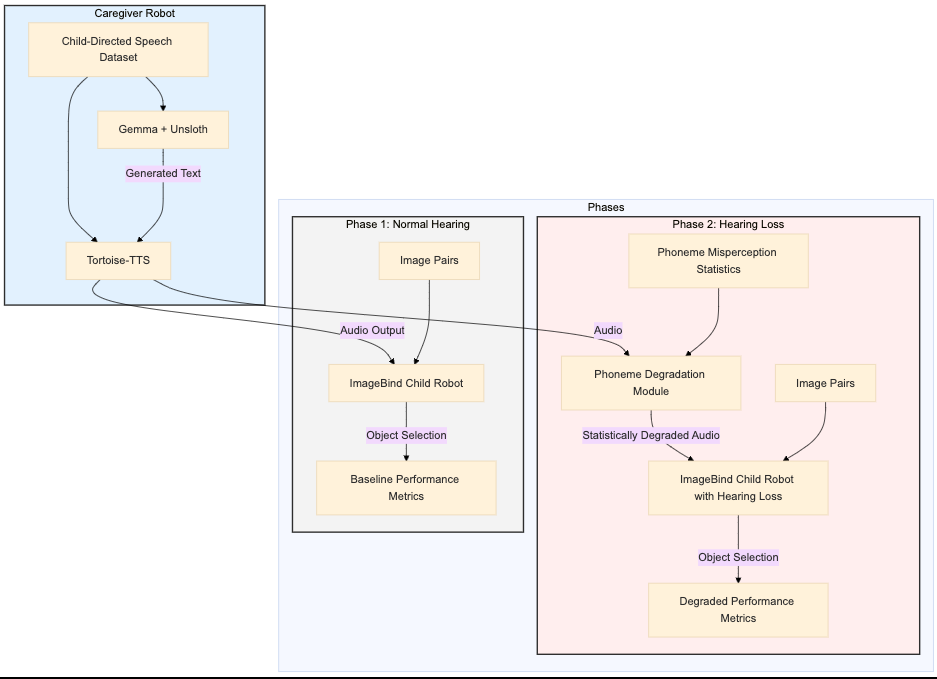
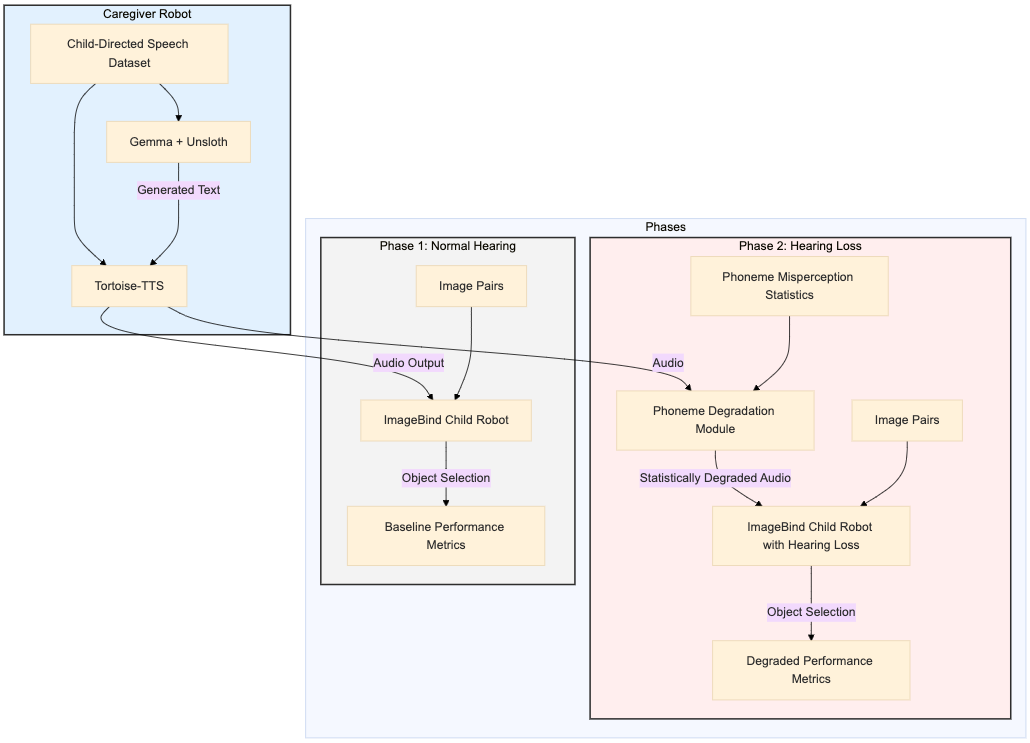
more clean up

diff --git a/_posts/2024-12-26-fine-tuning-language-models.md b/_posts/2024-12-26-fine-tuning-language-models.md
@@ -74,5 +74,5 @@ By precisely manipulating the linguistic and acoustic features of the generated 
 
 
 <div align="center">
-  <img src="/assets/images/cds-flowchart-2.png" width="50%" alt="Caregiver Robot Flowchart">
+  <img src="/assets/images/cds-flowchart-2.png" width="100%" alt="Caregiver Robot Flowchart">
 </div>
